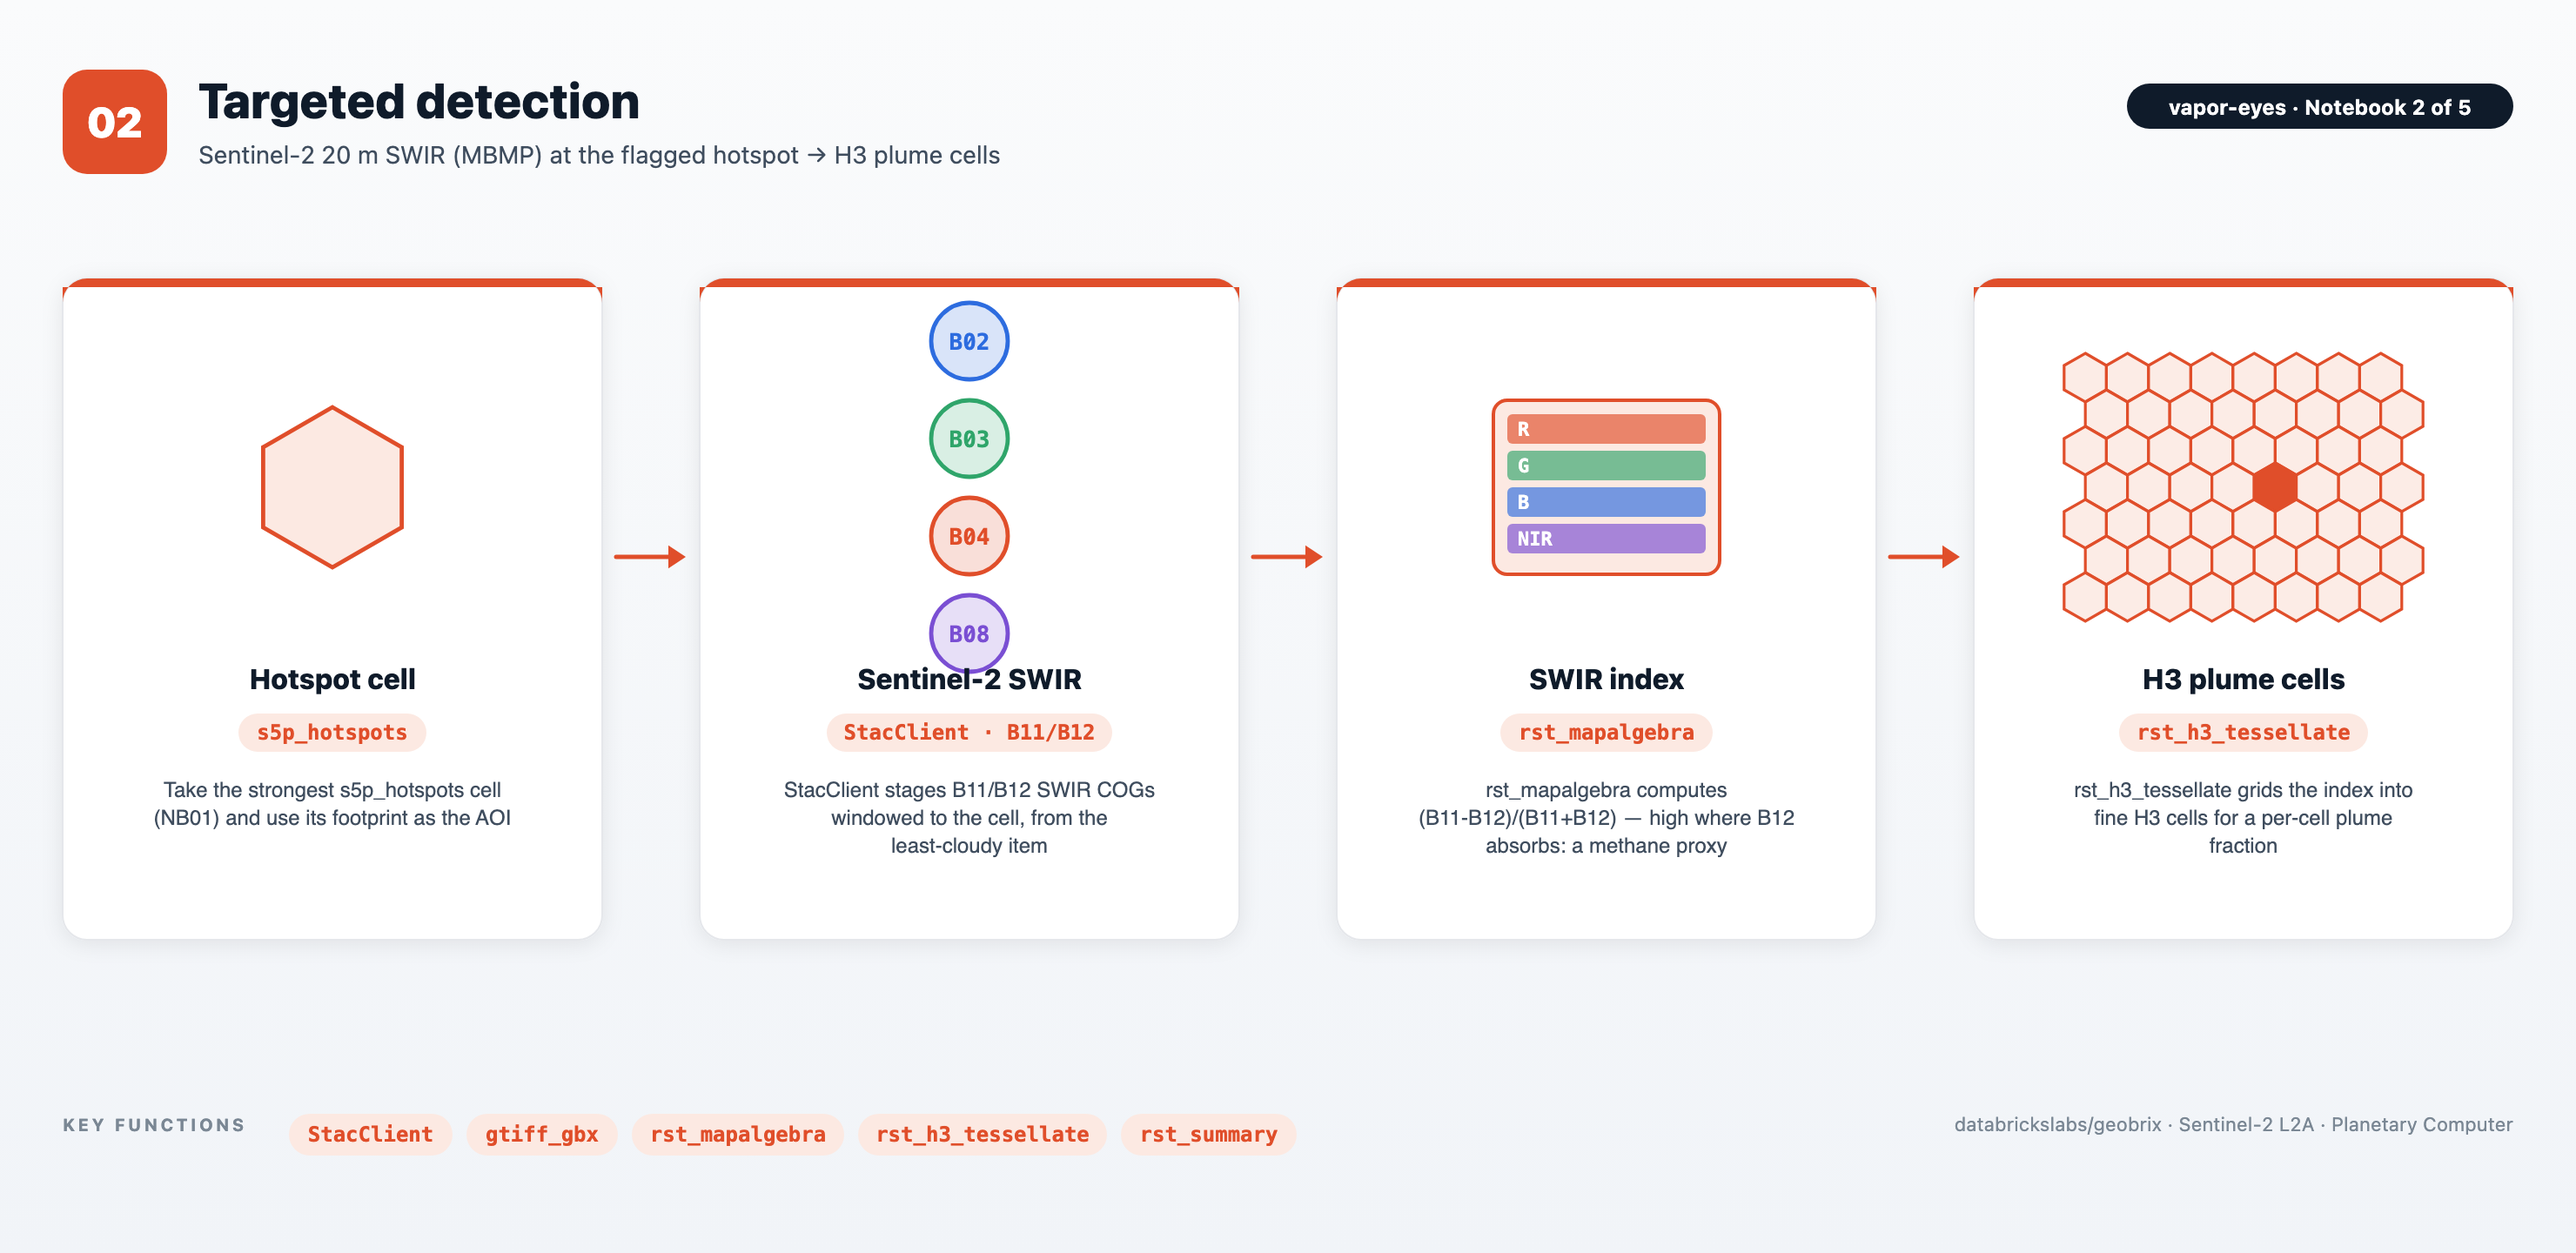
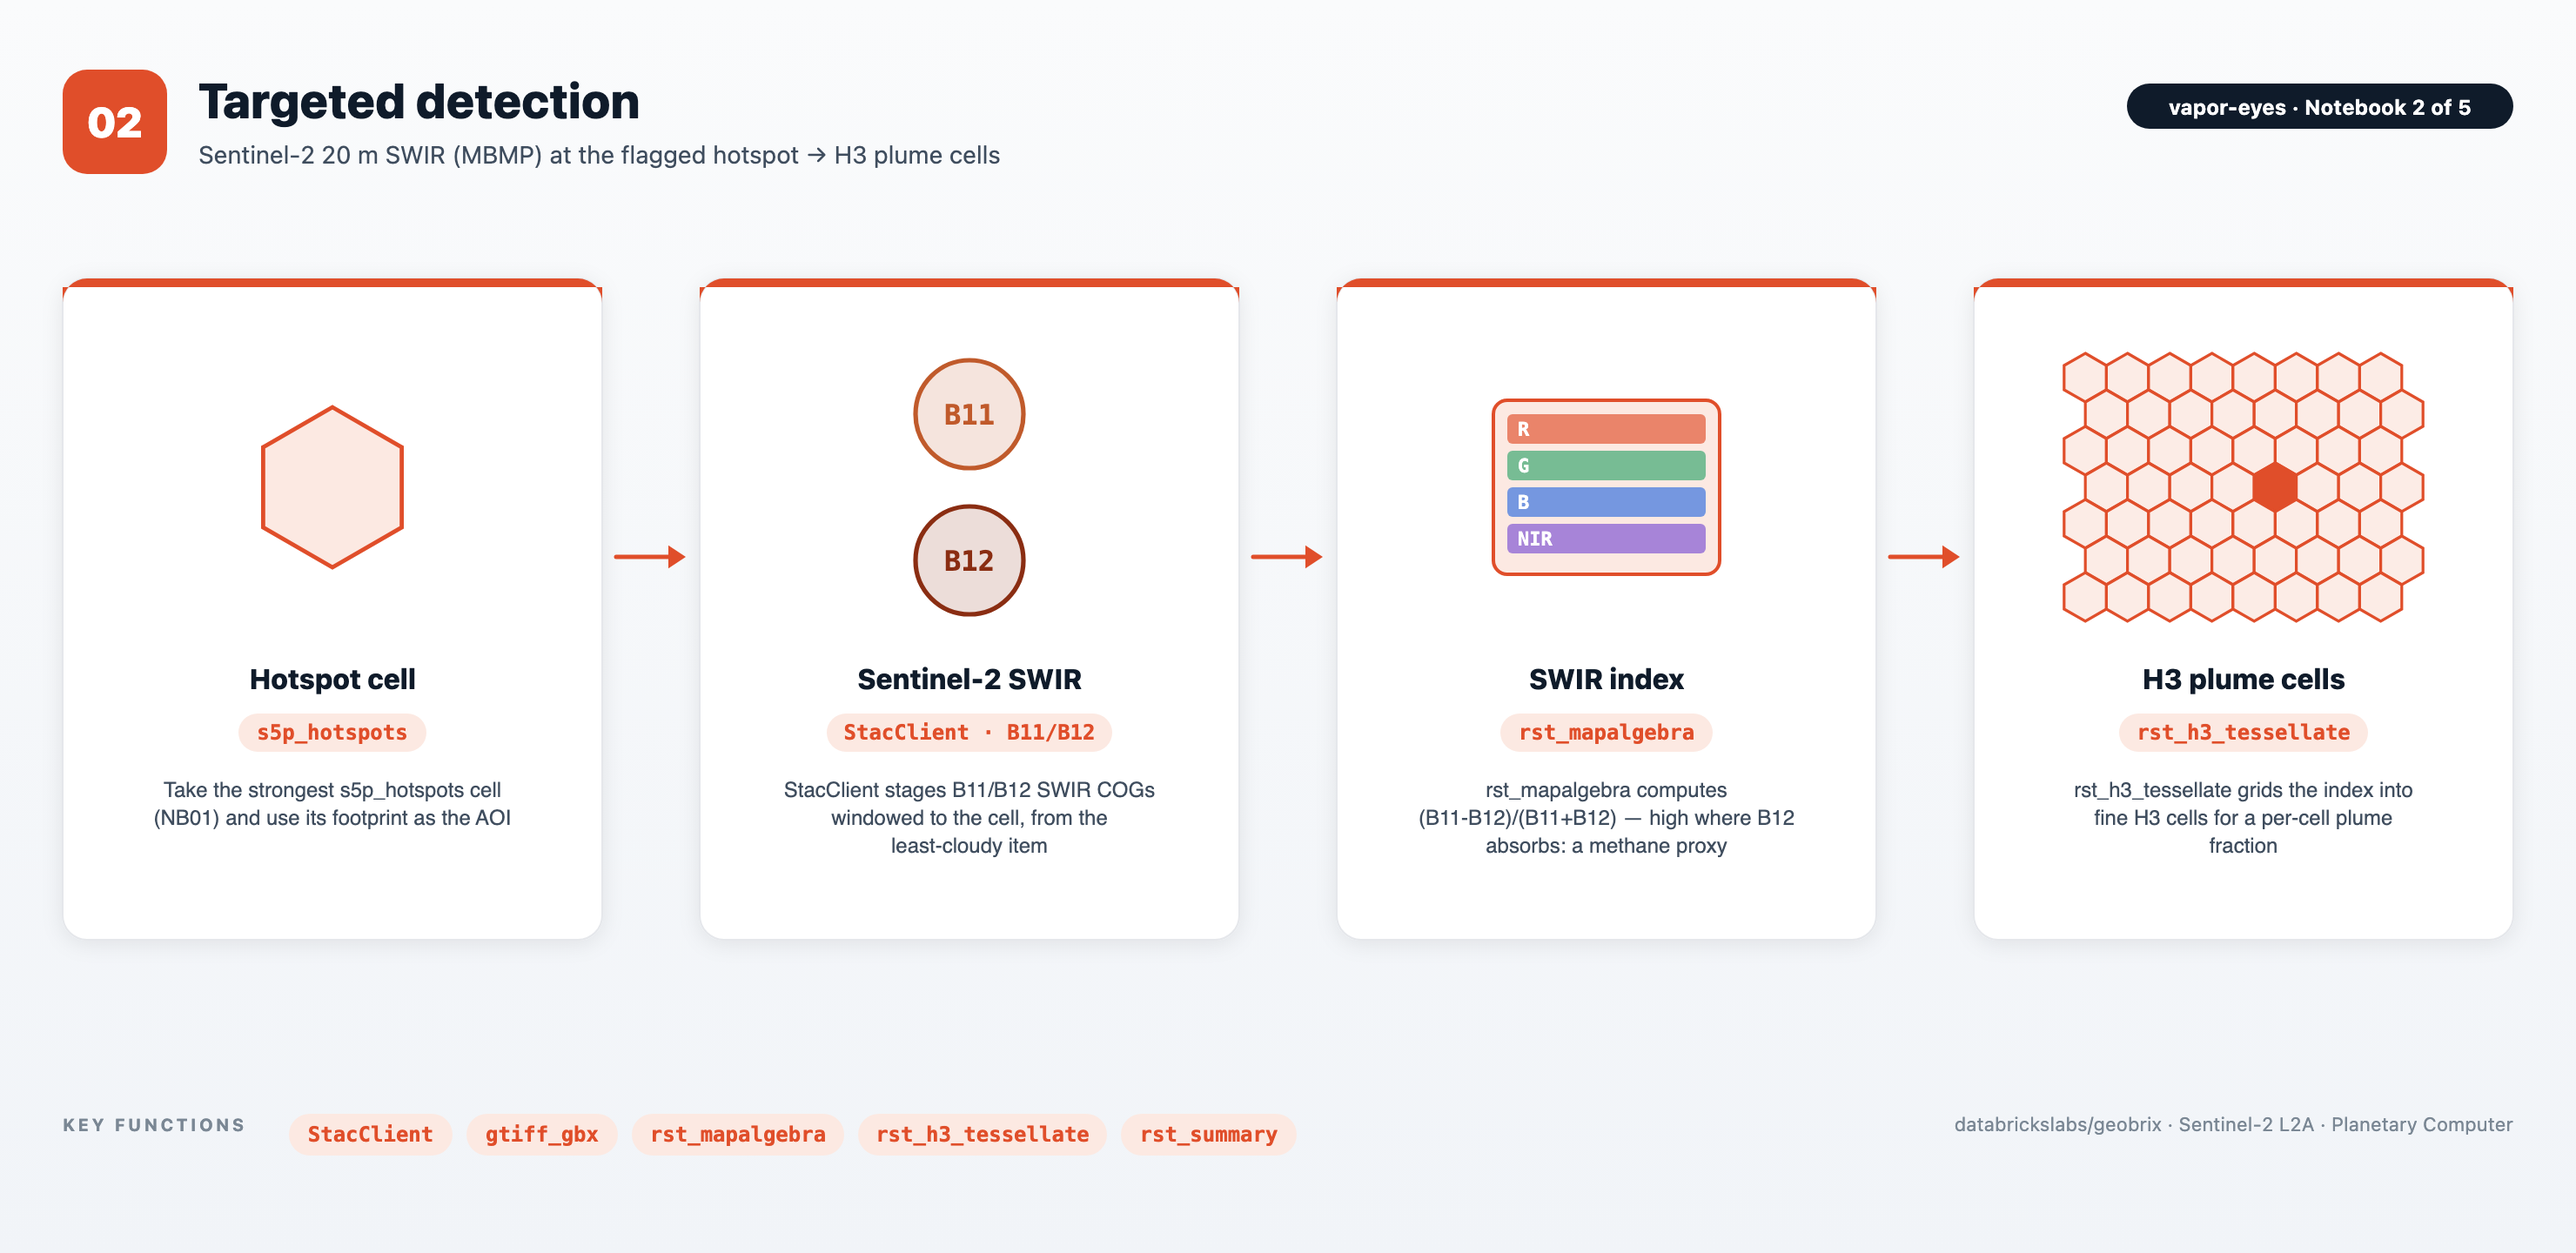
docs(vapor-eyes): NB02 diagram — accurate B11/B12 SWIR band glyph
The reused eo-series band glyph hardcoded B02/B03/B04/B08 (visible/NIR) and
its four stacked circles bled into the title. Replace it with a custom
two-band glyph labeled B11/B12 — the SWIR bands this step actually uses —
which is both accurate and correctly spaced.

Changed region(s): [[0.3419, 0.2188, 0.4041, 0.5312]]

diff --git a/resources/images/generators/vapor-eyes.py b/resources/images/generators/vapor-eyes.py
@@ -104,6 +104,23 @@ def g_well_pads(cx, cy, color, tint):
     )
 
 
+def g_swir_bands(cx, cy, color, tint):
+    """The two Sentinel-2 SWIR bands (B11, B12) that form the MBMP proxy."""
+    cols = {"B11": "#C05A2B", "B12": "#8A2D12"}
+    out = []
+    for i, b in enumerate(["B11", "B12"]):
+        y = cy - 42 + i * 84
+        c = cols[b]
+        out.append(
+            f'<circle cx="{cx}" cy="{y}" r="31" fill="{c}" fill-opacity="0.16" '
+            f'stroke="{c}" stroke-width="2.6"/>'
+            f'<text x="{cx}" y="{y + 6}" text-anchor="middle" '
+            f'font-family="ui-monospace, Menlo, monospace" font-size="16" '
+            f'font-weight="700" fill="{c}">{b}</text>'
+        )
+    return "".join(out)
+
+
 def g_layers(cx, cy, color, tint):
     """Three stacked map layers (hotspots / plumes / wells) with a hex motif."""
     out = [
@@ -253,8 +270,7 @@ NOTEBOOKS = {
                   chip_text="s5p_hotspots", glyph=eo.g_single_hex),
             Stage(title="Sentinel-2 SWIR",
                   subtitle="StacClient stages B11/B12 SWIR COGs windowed to the cell, from the least-cloudy item",
-                  chip_text="StacClient · B11/B12",
-                  glyph=lambda cx, cy, c, t: eo.g_band_fanout(cx, cy)),
+                  chip_text="StacClient · B11/B12", glyph=g_swir_bands),
             Stage(title="SWIR index",
                   subtitle="rst_mapalgebra computes (B11-B12)/(B11+B12) — high where B12 absorbs: a methane proxy",
                   chip_text="rst_mapalgebra", glyph=eo.g_multiband_tile),
